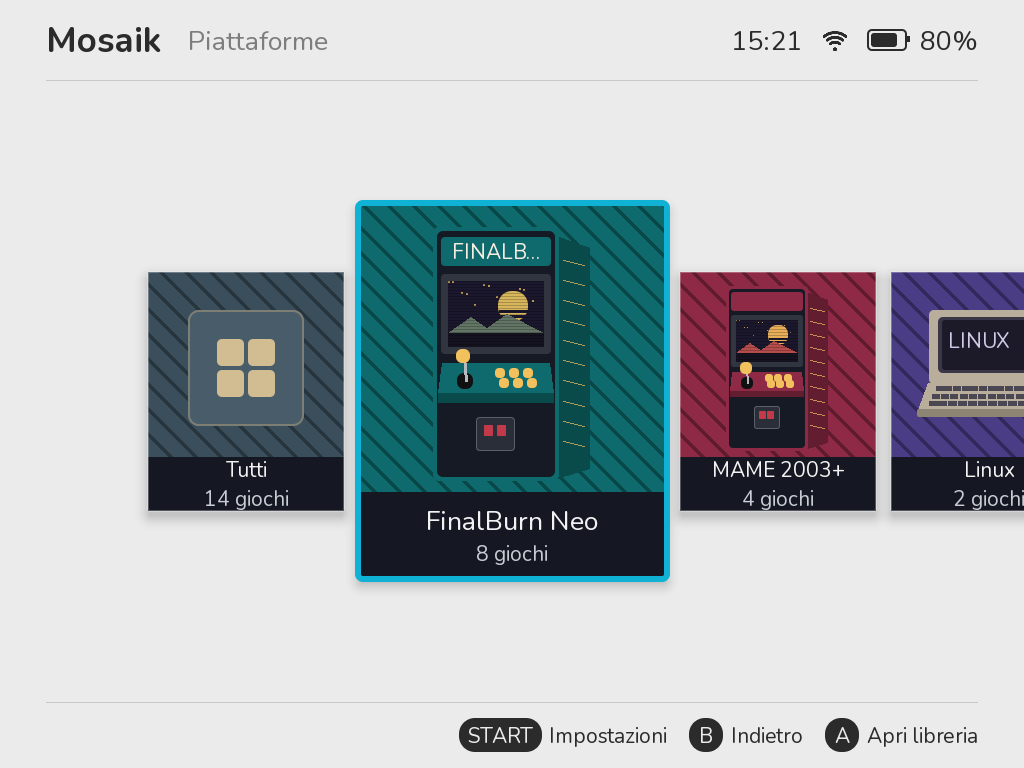
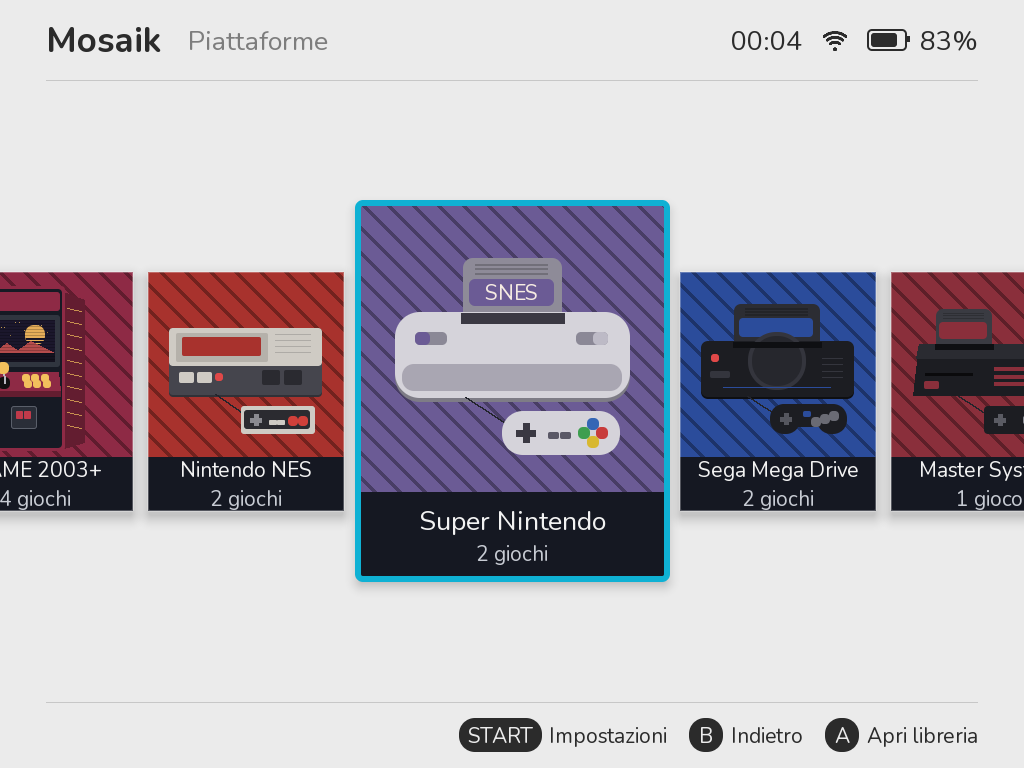
0.9.17: dieci console, scraper delle console, Wi-Fi della Brick Pro, spegnimento in carica
- NES, Super Nintendo, Mega Drive, Master System, Game Gear, PC Engine,
  Game Boy, Game Boy Color, GBA, Neo Geo Pocket; scraper delle console
  (dati libretro dal CRC, scatole).
- Brick Pro: niente blocchi col Wi-Fi acceso (#1).
- Spegnimento e riavvio col caricatore collegato (#2).
- README: console e copertine, schermata Piattaforme con le console nuove.
- TODO: fruscio dell'altoparlante della Brick Pro (trimui/firmware_brickpro#5).

Changed region(s): [[0.0, 0.25, 1.0, 0.7188], [0.7188, 0.0312, 0.7812, 0.0625], [0.9062, 0.0312, 0.9375, 0.0625]]

diff --git a/README.it.md b/README.it.md
@@ -23,12 +23,13 @@
   <img src="docs/images/it/home.png" width="640" alt="La schermata iniziale di Mosaik">
 </p>
 
-> **Stato:** versione 0.9. **Smart Pro e Brick Pro: provate.** Le console (NES, Super Nintendo, Mega Drive, Game Boy, GBA) per ora sono nel canale Sviluppo e arrivano con la prossima versione.
+> **Stato:** versione 0.9. **Smart Pro e Brick Pro: provate.**
 
 ## Cosa c'è dentro
 
 - **FinalBurn Neo e MAME 2003-Plus**: Neo Geo, CPS1, CPS2 e gran parte dei classici arcade.
-- **NES, Super Nintendo, Mega Drive, Game Boy, Game Boy Color e Game Boy Advance**, con i salvataggi a batteria (anche l'orologio dei Pokémon) e le ROM zippate. Altre console sono in arrivo.
+- **NES, Super Nintendo, Mega Drive, Master System, Game Gear, PC Engine, Game Boy, Game Boy Color, Game Boy Advance e Neo Geo Pocket**, con i salvataggi a batteria (anche l'orologio dei Pokémon) e le ROM zippate.
+- **Copertine e informazioni anche per le console**: scatola, titolo, anno, editore, genere e giocatori, trovati dalla ROM stessa.
 - **Giochi Linux**, con menu sopra al gioco e sospensione.
 - **Avvio in circa 5 secondi**, sospensione con il tasto di accensione.
 - **Wi-Fi integrato** per copertine, storia dei giochi, ora e aggiornamenti.
@@ -99,7 +100,8 @@ Spegni la console e collega la scheda al computer. Tutto si trova nella cartella
 | `Roms/FBNEO` | ROM per FinalBurn Neo (raccolta FBNeo attuale), anche in sottocartelle |
 | `Roms/MAME2003P` | ROM per MAME 2003-Plus (raccolta 0.78-plus) |
 | `Roms/NES`, `Roms/SNES`, `Roms/MD` | Giochi NES, Super Nintendo e Mega Drive |
-| `Roms/GB`, `Roms/GBC`, `Roms/GBA` | Giochi Game Boy, Game Boy Color e Game Boy Advance |
+| `Roms/SMS`, `Roms/GG`, `Roms/PCE` | Giochi Master System, Game Gear e PC Engine (HuCard) |
+| `Roms/GB`, `Roms/GBC`, `Roms/GBA`, `Roms/NGP` | Giochi Game Boy, Game Boy Color, Game Boy Advance e Neo Geo Pocket |
 | `Bios` | `neogeo.zip` e gli altri BIOS |
 | `Linux` | Giochi Linux, uno per cartella |
 | `Media` | Immagini dei giochi |
@@ -188,6 +190,6 @@ La compilazione usa Docker e richiede componenti estratti dal firmware ufficiale
 
 Il codice scritto per Mosaik è sotto [GNU LGPL v3](COPYING.LESSER). Non si applica ai componenti di terzi, che mantengono le proprie licenze: vedi [`licenses/THIRD-PARTY.md`](licenses/THIRD-PARTY.md), con anche i link ai sorgenti degli emulatori.
 
-FinalBurn Neo, MAME 2003-Plus, Genesis Plus GX e Snes9x sono solo per uso non commerciale, quindi **Mosaik non può essere venduto**, né da solo né preinstallato. Le immagini del sistema contengono anche componenti presi dal firmware ufficiale TrimUI, che appartengono ai rispettivi proprietari. I sorgenti dei programmi GPL inclusi nelle immagini (BusyBox, dosfstools) sono allegati a ogni [release](https://github.com/diapolon/mosaik_cfw/releases), insieme a quelli degli emulatori GPL e MPL (FCEUmm, Gambatte, mGBA) nelle release che li contengono.
+FinalBurn Neo, MAME 2003-Plus, Genesis Plus GX e Snes9x sono solo per uso non commerciale, quindi **Mosaik non può essere venduto**, né da solo né preinstallato. Le immagini del sistema contengono anche componenti presi dal firmware ufficiale TrimUI, che appartengono ai rispettivi proprietari. I sorgenti dei programmi GPL inclusi nelle immagini (BusyBox, dosfstools) sono allegati a ogni [release](https://github.com/diapolon/mosaik_cfw/releases), insieme a quelli degli emulatori GPL e MPL (FCEUmm, Gambatte, mGBA, Beetle PCE Fast, Beetle NeoPop) nelle release che li contengono.
 
 Progetto indipendente, non affiliato a TrimUI.

diff --git a/README.md b/README.md
@@ -23,12 +23,13 @@
   <img src="docs/images/home.png" width="640" alt="The Mosaik home screen">
 </p>
 
-> **Status:** version 0.9. **Smart Pro and Brick Pro: tested.** The consoles (NES, Super Nintendo, Mega Drive, Game Boy, GBA) are in the Development channel for now and come with the next version.
+> **Status:** version 0.9. **Smart Pro and Brick Pro: tested.**
 
 ## What's inside
 
 - **FinalBurn Neo and MAME 2003-Plus**: Neo Geo, CPS1, CPS2 and most of the arcade classics.
-- **NES, Super Nintendo, Mega Drive, Game Boy, Game Boy Color and Game Boy Advance**, with battery saves (also the clock of the Pokémon games) and zipped ROMs. More consoles are on the way.
+- **NES, Super Nintendo, Mega Drive, Master System, Game Gear, PC Engine, Game Boy, Game Boy Color, Game Boy Advance and Neo Geo Pocket**, with battery saves (also the clock of the Pokémon games) and zipped ROMs.
+- **Covers and game information for consoles too**: box art, title, year, publisher, genre and players, found by the ROM itself.
 - **Linux games**, with an in-game menu and sleep.
 - **Boots in about 5 seconds**, sleep with the power button.
 - **Built-in Wi-Fi** for covers, game history, time and updates.
@@ -99,7 +100,8 @@ Turn the console off and connect the card to your computer. Everything is in the
 | `Roms/FBNEO` | ROMs for FinalBurn Neo (current FBNeo set), subfolders allowed |
 | `Roms/MAME2003P` | ROMs for MAME 2003-Plus (0.78-plus set) |
 | `Roms/NES`, `Roms/SNES`, `Roms/MD` | NES, Super Nintendo and Mega Drive games |
-| `Roms/GB`, `Roms/GBC`, `Roms/GBA` | Game Boy, Game Boy Color and Game Boy Advance games |
+| `Roms/SMS`, `Roms/GG`, `Roms/PCE` | Master System, Game Gear and PC Engine (HuCard) games |
+| `Roms/GB`, `Roms/GBC`, `Roms/GBA`, `Roms/NGP` | Game Boy, Game Boy Color, Game Boy Advance and Neo Geo Pocket games |
 | `Bios` | `neogeo.zip` and other BIOS files |
 | `Linux` | Linux games, one per folder |
 | `Media` | Game images |
@@ -188,6 +190,6 @@ The build uses Docker and needs components extracted from the official TrimUI fi
 
 The code written for Mosaik is under the [GNU LGPL v3](COPYING.LESSER). It does not cover third-party components, which keep their own licenses: see [`licenses/THIRD-PARTY.md`](licenses/THIRD-PARTY.md), which also links the emulator sources.
 
-FinalBurn Neo, MAME 2003-Plus, Genesis Plus GX and Snes9x are for non-commercial use only, so **Mosaik must not be sold**, alone or preinstalled. The system images also contain components taken from the official TrimUI firmware, which belong to their respective owners. The source code of the GPL programs built for the images (BusyBox, dosfstools) is attached to each [release](https://github.com/diapolon/mosaik_cfw/releases), together with the source of the GPL and MPL emulators (FCEUmm, Gambatte, mGBA) in the releases that include them.
+FinalBurn Neo, MAME 2003-Plus, Genesis Plus GX and Snes9x are for non-commercial use only, so **Mosaik must not be sold**, alone or preinstalled. The system images also contain components taken from the official TrimUI firmware, which belong to their respective owners. The source code of the GPL programs built for the images (BusyBox, dosfstools) is attached to each [release](https://github.com/diapolon/mosaik_cfw/releases), together with the source of the GPL and MPL emulators (FCEUmm, Gambatte, mGBA, Beetle PCE Fast, Beetle NeoPop) in the releases that include them.
 
 Independent project, not affiliated with TrimUI.

diff --git a/TODO.md b/TODO.md
@@ -22,6 +22,7 @@
 
 ## Features
 
+- [ ] Brick Pro: speaker hiss at idle and chirps after UI sounds (amplifier always on, trimui/firmware_brickpro#5): switch `HpSpeaker Switch` off when nothing plays and on before sounds, music and games; check the pops by ear
 - [ ] Backup and restore: Tools → Backup makes one zip on the card (saves, settings, favorites, collections, play time, Wi-Fi networks; optionally images and ROMs). Copy it to a computer, write the card again, put the zip back: at the first start the console finds it and offers to import it. Pairs with the reinstall notice (`m2/area-avvio.conf`)
 - [ ] Bluetooth controllers
 - [x] Settings page for the Brick Pro's extra buttons (side HOME, F1, F2): list them on the console, choose what each one does, show the page only on models that have them
